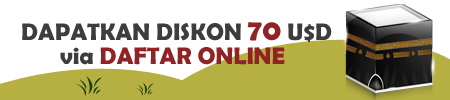
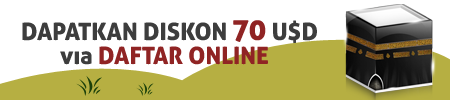
update font image di halaman utama

Changed region(s): [[0.0311, 0.18, 0.7467, 0.42], [0.1244, 0.45, 0.6533, 0.66]]

diff --git a/application/views/front.php b/application/views/front.php
@@ -11,7 +11,7 @@
 		<link rel="stylesheet" href="<?php echo base_url();?>css/front_ui.css" type="text/css" media="screen" title="default" /> <!-- main css -->
 		<link rel="stylesheet" href="<?php echo base_url();?>css/form.css" type="text/css" media="screen" title="default" /> <!-- form css -->
 		<link rel="stylesheet" href="<?php echo base_url();?>css/chosen.css" type="text/css" media="screen" title="default" /> <!-- searchable combobox css -->
-		<link href='http://fonts.googleapis.com/css?family=Oswald' rel='stylesheet' type='text/css' /> <!-- import font -->
+		<link href='http://fonts.googleapis.com/css?family=Oswald' rel='stylesheet' type='text/css' /> <!-- import font
 	
 		<!-- JAVASCRIPT -->
 		<!--<script src="<?php //echo base_url();?>js/jquery-1.6.2.min.js" type="text/javascript"></script>-->

diff --git a/application/config/routes.php b/application/config/routes.php
@@ -51,5 +51,19 @@ $route['pasca_daftar/(:any)'] 	= 'notification/show/$1';
 /* END ROUTING UNTUK FRONT -------------------------------------------------*/
 
 
+
+/* ROUTING UNTUK DASHBOARD -------------------------------------------------*/
+
+/* END ROUTING UNTUK DASHBOARD ---------------------------------------------*/
+
+
+
+/* ROUTING UNTUK ADMIN -------------------------------------------------*/
+
+/* END ROUTING UNTUK ADMIN ---------------------------------------------*/
+
+
+
+
 /* End of file routes.php */
 /* Location: ./application/config/routes.php */
